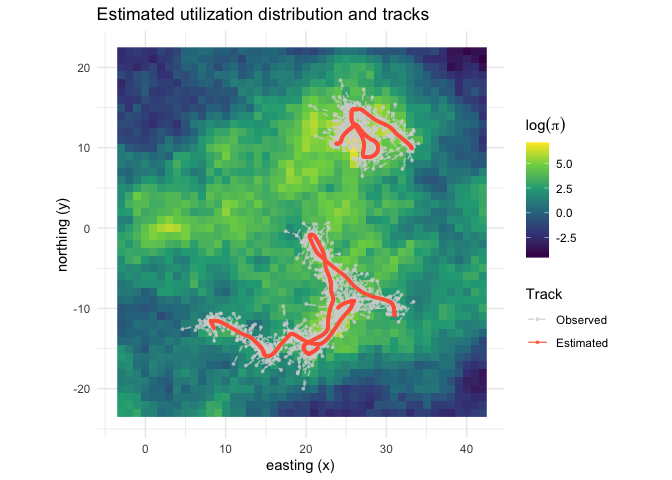
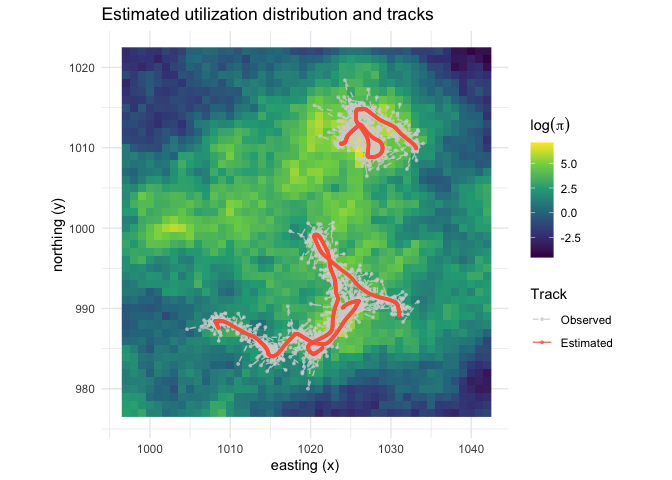
integrate subSampleData into simLangevin, create unformatData for formatData example, more fixes for edge cases

diff --git a/README.md b/README.md
@@ -60,13 +60,13 @@ simDat <- simLangevin(model = "underdamped",
                       nbAnimals = 3)
 
 head(simDat)
-#>   id date   dt        x          y smaj smin eor x.sd y.sd     mu.x       mu.y
-#> 1  1 0.00 0.00 24.00000 -10.000000   NA   NA  NA   NA   NA 24.00000 -10.000000
-#> 2  1 0.01 0.01 24.06717  -9.939797   NA   NA  NA   NA   NA 24.06717  -9.939797
-#> 3  1 0.02 0.01 24.13006  -9.880936   NA   NA  NA   NA   NA 24.13006  -9.880936
-#> 4  1 0.03 0.01 24.19461  -9.825303   NA   NA  NA   NA   NA 24.19461  -9.825303
-#> 5  1 0.04 0.01 24.25648  -9.771339   NA   NA  NA   NA   NA 24.25648  -9.771339
-#> 6  1 0.05 0.01 24.31481  -9.720915   NA   NA  NA   NA   NA 24.31481  -9.720915
+#>   id date   dt        x        y smaj smin eor x.sd y.sd     mu.x     mu.y
+#> 1  1 0.00 0.00 1024.000 990.0000   NA   NA  NA   NA   NA 1024.000 990.0000
+#> 2  1 0.01 0.01 1024.067 990.0602   NA   NA  NA   NA   NA 1024.067 990.0602
+#> 3  1 0.02 0.01 1024.130 990.1191   NA   NA  NA   NA   NA 1024.130 990.1191
+#> 4  1 0.03 0.01 1024.195 990.1747   NA   NA  NA   NA   NA 1024.195 990.1747
+#> 5  1 0.04 0.01 1024.256 990.2287   NA   NA  NA   NA   NA 1024.256 990.2287
+#> 6  1 0.05 0.01 1024.315 990.2791   NA   NA  NA   NA   NA 1024.315 990.2791
 #>      vel.x    vel.y
 #> 1 6.648996 6.362147
 #> 2 6.341045 5.739271
@@ -88,26 +88,62 @@ exampleDat <- simLangevin(model = "underdamped",
                          measurementError = measurementError)
 
 head(exampleDat)
-#>   id date   dt        x          y      smaj      smin       eor x.sd y.sd
-#> 1  1 0.00 0.00 23.61025 -11.277545 3.1904213 0.8238468 0.4407540   NA   NA
-#> 2  1 0.01 0.01 24.05602  -9.964745 0.2602149 0.1929297 0.8419944   NA   NA
-#> 3  1 0.02 0.01 22.94294  -8.917735 1.9072127 0.6294832 2.2160981   NA   NA
-#> 4  1 0.03 0.01 24.24320  -9.879881 0.1952989 0.0469546 2.2100417   NA   NA
-#> 5  1 0.04 0.01 24.99638  -9.437491 1.4343749 1.1175133 2.8685380   NA   NA
-#> 6  1 0.05 0.01 24.48937  -9.095674 0.8349596 0.1392169 0.4690632   NA   NA
-#>       mu.x       mu.y    vel.x    vel.y
-#> 1 24.00000 -10.000000 6.648996 6.362147
-#> 2 24.06717  -9.939797 6.341045 5.739271
-#> 3 24.13006  -9.880936 6.837852 5.723017
-#> 4 24.19461  -9.825303 6.165345 5.344009
-#> 5 24.25648  -9.771339 5.949173 5.076844
-#> 6 24.31481  -9.720915 5.844776 5.189753
+#>   id date   dt        x        y      smaj      smin       eor x.sd y.sd
+#> 1  1 0.00 0.00 1023.610 988.7225 3.1904213 0.8238468 0.4407540   NA   NA
+#> 2  1 0.01 0.01 1024.056 990.0353 0.2602149 0.1929297 0.8419944   NA   NA
+#> 3  1 0.02 0.01 1022.943 991.0823 1.9072127 0.6294832 2.2160981   NA   NA
+#> 4  1 0.03 0.01 1024.243 990.1201 0.1952989 0.0469546 2.2100417   NA   NA
+#> 5  1 0.04 0.01 1024.996 990.5625 1.4343749 1.1175133 2.8685380   NA   NA
+#> 6  1 0.05 0.01 1024.489 990.9043 0.8349596 0.1392169 0.4690632   NA   NA
+#>       mu.x     mu.y    vel.x    vel.y
+#> 1 1024.000 990.0000 6.648996 6.362147
+#> 2 1024.067 990.0602 6.341045 5.739271
+#> 3 1024.130 990.1191 6.837852 5.723017
+#> 4 1024.195 990.1747 6.165345 5.344009
+#> 5 1024.256 990.2287 5.949173 5.076844
+#> 6 1024.315 990.2791 5.844776 5.189753
 ```
 
 To fit the Langevin diffusion model to observed tracking data, one can
-use the `fitLangevin` function. For example:
+use the `formatData` and `fitLangevin` functions. For example:
 
 ``` r
+# unformatDat is example data appropriate for formatData that loads with the package
+head(unformatDat)
+#>   id                date        x        y      smaj      smin       eor x.sd
+#> 1  1 2026-04-03 00:00:00 1023.610 988.7225 3.1904213 0.8238468  25.25334   NA
+#> 2  1 2026-04-03 00:00:36 1024.056 990.0353 0.2602149 0.1929297  48.24272   NA
+#> 3  1 2026-04-03 00:01:12 1022.943 991.0823 1.9072127 0.6294832 126.97307   NA
+#> 4  1 2026-04-03 00:01:48 1024.243 990.1201 0.1952989 0.0469546 126.62606   NA
+#> 5  1 2026-04-03 00:02:24 1024.996 990.5625 1.4343749 1.1175133 164.35512   NA
+#> 6  1 2026-04-03 00:03:00 1024.489 990.9043 0.8349596 0.1392169  26.87534   NA
+#>   y.sd
+#> 1   NA
+#> 2   NA
+#> 3   NA
+#> 4   NA
+#> 5   NA
+#> 6   NA
+
+# format the data for fitLangevin
+exampleDat <- formatData(unformatDat, time.unit = "hours")
+
+head(exampleDat)
+#>   id                date   dt        x        y   lc      smaj      smin
+#> 1  1 2026-04-03 00:00:00 0.00 1023.610 988.7225 <NA> 3.1904213 0.8238468
+#> 2  1 2026-04-03 00:00:36 0.01 1024.056 990.0353 <NA> 0.2602149 0.1929297
+#> 3  1 2026-04-03 00:01:12 0.01 1022.943 991.0823 <NA> 1.9072127 0.6294832
+#> 4  1 2026-04-03 00:01:48 0.01 1024.243 990.1201 <NA> 0.1952989 0.0469546
+#> 5  1 2026-04-03 00:02:24 0.01 1024.996 990.5625 <NA> 1.4343749 1.1175133
+#> 6  1 2026-04-03 00:03:00 0.01 1024.489 990.9043 <NA> 0.8349596 0.1392169
+#>         eor x.sd y.sd
+#> 1 0.4407540   NA   NA
+#> 2 0.8419944   NA   NA
+#> 3 2.2160981   NA   NA
+#> 4 2.2100417   NA   NA
+#> 5 2.8685380   NA   NA
+#> 6 0.4690632   NA   NA
+
 # Fit the underdamped Langevin diffusion model to simulated data with measurement error
 ## setting calcOSA = TRUE will calculate one-step-ahead residuals for model diagnostics
 fit <- fitLangevin(model = "underdamped",
@@ -123,14 +159,14 @@ fit
 #> Model type:        Underdamped 
 #> Convergence:       Successful 
 #> Max Log-Likelihood: -2061.97 
-#> Optimization time:  1.78 seconds
+#> Optimization time:  2.17 seconds
 #> 
 #> Parameter Estimates (Natural Scale):
 #> ---------------------------------------
 #>        Estimate Std. Error
-#> beta_1  -3.5438      1.250
-#> beta_2   8.6137      2.295
-#> beta_3   7.5114      1.948
+#> beta_1  -3.5437      1.251
+#> beta_2   8.6136      2.295
+#> beta_3   7.5113      1.948
 #> beta_4  -0.3084      0.324
 #> sigma    4.3092      0.500
 #> gamma    0.5850      0.145
@@ -164,7 +200,7 @@ trueUD <- getUD(spatialCovs = exampleCovs, beta = par$beta)
 
 # calculate similarity of true and estimated UDs using Bhattacharyya's affinity
 rasterOverlap(exp(UD), exp(trueUD))
-#> [1] 0.9088076
+#> [1] 0.9088082
 ```
 
 ## Citation